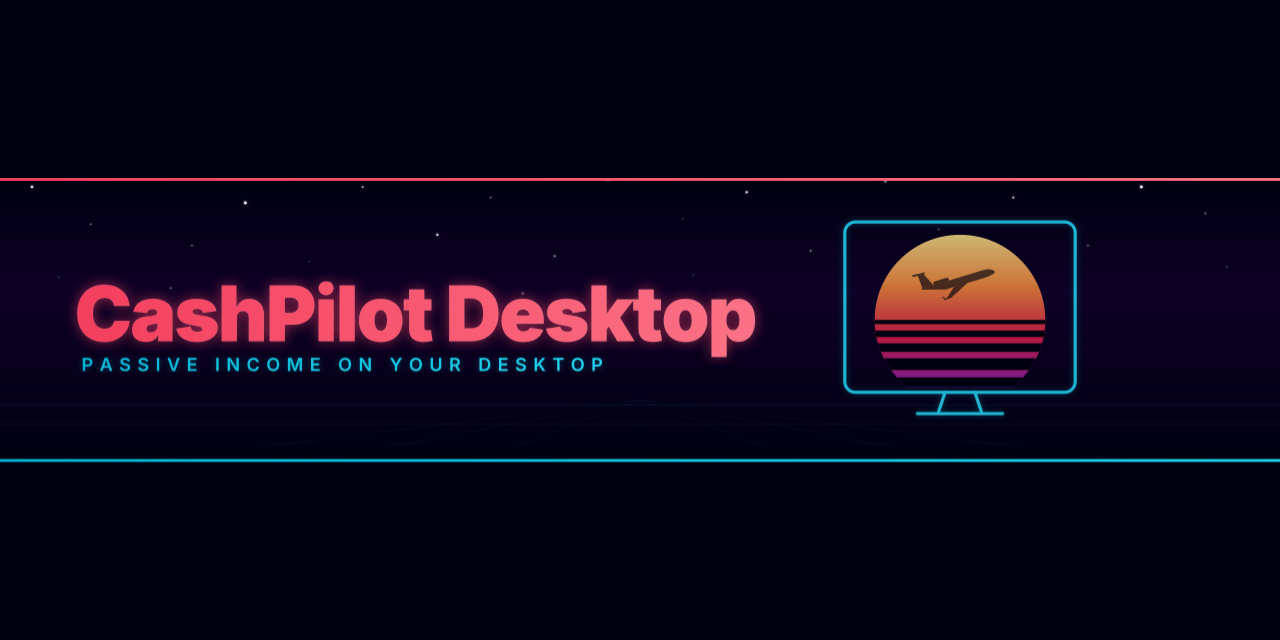
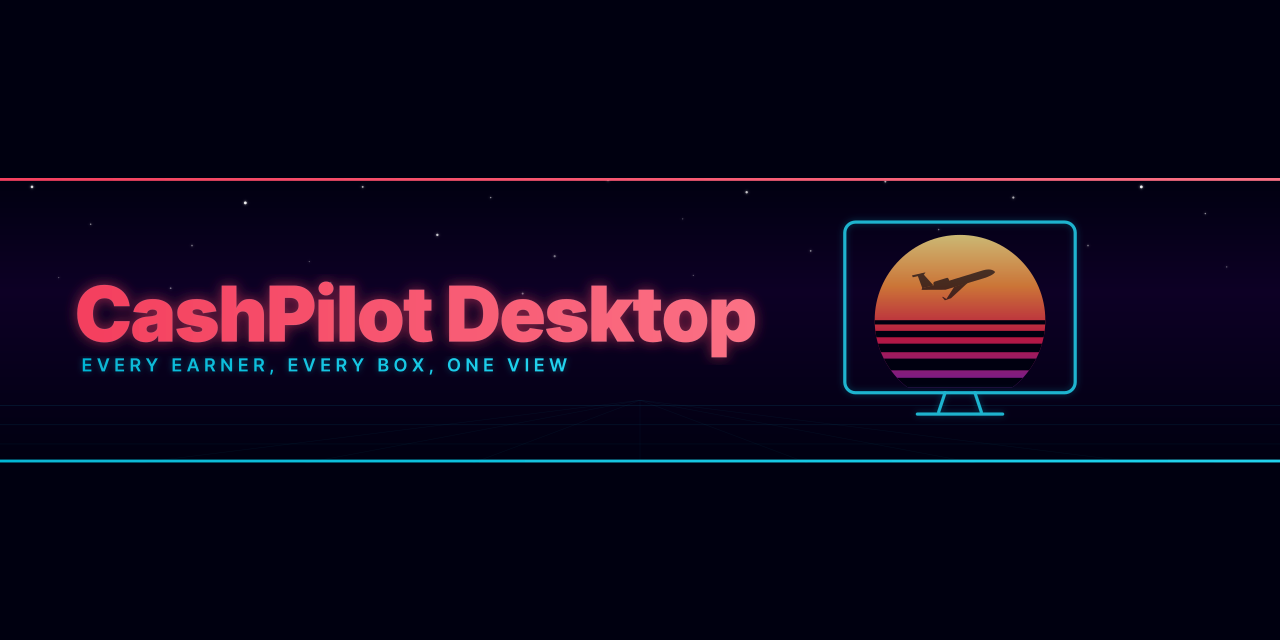
docs: show what Desktop covers now: every kind of earner, the LAN fence and one fleet (#383)
* docs: describe CashPilot Desktop as it is now: every kind of earner, the LAN fence and one fleet

* docs: qualify the socket-proxy and container claims, and fix the AUR desktop-entry checksum

---------

Changed region(s): [[0.0625, 0.5, 0.4688, 0.5938], [0.6875, 0.5, 0.8125, 0.5625], [0.6562, 0.5938, 0.8438, 0.6562]]

diff --git a/packaging/homebrew/cashpilot-desktop.rb b/packaging/homebrew/cashpilot-desktop.rb
@@ -5,7 +5,7 @@ cask "cashpilot-desktop" do
 
   url "https://github.com/GeiserX/CashPilot-Desktop/releases/download/v#{version}/CashPilot-Desktop-darwin-arm64.zip"
   name "CashPilot Desktop"
-  desc "Deploy and monitor passive-income and DePIN services in Docker or Podman"
+  desc "Deploy and track bandwidth sharing, DePIN, mining, GPU and storage earners"
   homepage "https://github.com/GeiserX/CashPilot-Desktop"
 
   livecheck do

diff --git a/README.md b/README.md
@@ -8,11 +8,11 @@
   <a href="https://github.com/GeiserX/CashPilot-Desktop/blob/main/LICENSE"><img src="https://img.shields.io/github/license/GeiserX/CashPilot-Desktop?style=flat-square" alt="License"></a>
   <a href="https://github.com/GeiserX/CashPilot-Desktop/releases"><img src="https://img.shields.io/github/downloads/GeiserX/CashPilot-Desktop/total?style=flat-square&logo=github" alt="Downloads"></a>
   <a href="https://github.com/GeiserX/CashPilot-Desktop/stargazers"><img src="https://img.shields.io/github/stars/GeiserX/CashPilot-Desktop?style=flat-square&logo=github" alt="Stars"></a>
-  <a href="https://cashpilot.club"><img src="https://img.shields.io/badge/website-cashpilot.club-blue?style=flat-square" alt="Website"></a>
-  <a href="https://x.com/CashPilotClub"><img src="https://img.shields.io/badge/X-%40CashPilotClub-000000?style=flat-square&logo=x" alt="X"></a>
 </p>
 
-CashPilot Desktop is a local-first desktop app for macOS (Apple Silicon), Windows and Linux that deploys and monitors passive-income and DePIN services. It packs CashPilot into one app with a system tray and a setup wizard, so you open an app instead of running the CashPilot container and a browser; the earning services themselves still run in Docker or Podman. It runs either as the full CashPilot dashboard (Run everything here) or as a box that joins a CashPilot server you already have (Join my CashPilot).
+<p align="center"><strong>Every earner, every box, one view.</strong><br><a href="https://cashpilot.club">cashpilot.club</a> · <a href="https://x.com/CashPilotClub">@CashPilotClub on X</a></p>
+
+CashPilot Desktop is CashPilot as a desktop app for macOS (Apple Silicon), Windows and Linux. It deploys and tracks the software that earns from your spare bandwidth, compute and disk (bandwidth sharing, DePIN nodes, crypto mining, GPU compute and storage), and on a new install it fences the Docker earners off your LAN and this computer. It runs as the full CashPilot dashboard (Run everything here) or as one more box in a CashPilot fleet you already have (Join my CashPilot). Earners with a container image run in Docker or Podman, and the app tracks the browser-extension and desktop-only ones.
 
 <p align="center">
   <img src="docs/images/screenshots/02-dashboard.png" alt="CashPilot Desktop dashboard" width="80%">
@@ -22,25 +22,16 @@ CashPilot Desktop is at 2.0 and does not update itself: get new versions from th
 
 ## Features
 
-- **One-click install** -- No Docker knowledge required; the app handles container setup for you
-- **System tray (macOS)** -- Runs quietly in the background with quick-access status and earnings summary; menu-bar icon is macOS-only today (Windows/Linux planned)
-- **Real-time monitoring** -- Live earnings, service health, container stats, and node uptime
-- **Multi-node fleet** -- Aggregate view across your entire CashPilot fleet from a single window
-- **Server commands** -- A CashPilot server that this computer joined can deploy, stop, start, restart and remove services here. It needs CashPilot 3.0.0 or newer on the server, and a switch on the dashboard card turns it on or off ([docs](docs/configuration.md#the-server-starts-and-stops-services-here))
-- **Hub for workers and phones** -- Desktop can also be the hub: workers and the [Android companion](https://github.com/GeiserX/CashPilot-android/releases) report to it instead of to a CashPilot server
-- **Activity (opt-in)** -- Which destinations each earner talks to, whether it reaches into your network or sends mail; off by default, remote addresses kept 24 hours ([details](docs/activity.md))
-- **Guided setup wizard** -- Step-by-step onboarding with Docker detection and installation guidance
-- **Custom services** -- Run any image from Docker Hub or another registry that the catalog does not list, with the same restrictions as catalog services. A custom service gets no GPU and may not set an `NVIDIA_` variable ([docs](docs/custom-services.md))
-- **Proxied copies** -- Run extra copies of a deployed service through a SOCKS5, HTTP CONNECT or Tailscale exit-node proxy, so one computer earns on several IPs; a dead proxy stops the copy instead of leaking ([docs](docs/proxies.md))
-- **LAN isolation** -- New installs fence bridge-networked container earners off private ranges, tailnets, cloud metadata, this computer, its public IP and the public IPs of your other CashPilot boxes. If the fence can't be written, the deploy is refused, and the app rewrites it every five minutes. Mysterium's container runs only behind the fence, and its deploy is refused where the fence can't be applied. An upgraded install turns it on with one button. Not covered: Podman, a native (no-Docker) Mysterium node, a public IP with no CashPilot box on it, the minutes before the first public-IP lookup, and the gap after a firewall reload until the next rewrite ([docs](docs/configuration.md#lan-isolation))
-- **Node identities kept safe** -- Removing a service keeps its data, an unrecoverable volume is never deleted without a separate yes, and encrypted backups take one click ([docs](docs/backup.md))
-- **Provider grades** -- Every catalog provider gets a letter grade from the same published criteria as the web app, with its cons and their sources ([how we grade](https://geiserx.github.io/CashPilot/ratings/))
-- **GPU miners** -- A catalog miner gets the GPU that its catalog entry declares, and only this computer's catalog decides that. GPU support is in beta
-- **Check before deploy** -- Before a deploy, the app says what would stop a service earning on this computer
-- **Import from another tool** -- Bring service logins over from money4band, CashFactory or InternetIncome after a dry run ([docs](docs/migrate/money4band.md))
-- **Cross-platform** -- Native builds for macOS (ARM64), Windows (x64), and Linux (x64)
-- **Lightweight** -- Minimal resource usage thanks to native Go backend with webview frontend
-- **Secure** -- Credentials encrypted at rest with AES-256-GCM; master key in the OS keychain. From the first release after v0.20.5 the macOS build is signed with a Developer ID certificate and notarized by Apple; Windows signing is planned.
+- **One-click deploys** -- Pick an earner with a container image from the catalog and the app sets up its container; the wizard helps you install Docker
+- **LAN isolation** -- New Docker installs fence earners off your LAN, tailnets, cloud metadata, this computer and your public IPs, or refuse the deploy ([docs](docs/configuration.md#lan-isolation))
+- **One fleet** -- Join your CashPilot server as one more box, or be the hub that Docker workers and the [Android companion](https://github.com/GeiserX/CashPilot-android/releases) report to
+- **Server commands** -- Your CashPilot server (3.0.0 or newer) can deploy, stop and remove services here, behind a switch ([docs](docs/configuration.md#the-server-starts-and-stops-services-here))
+- **Real-time monitoring** -- Live earnings, service health, container stats and node uptime, with a menu-bar summary on macOS
+- **Activity (opt-in)** -- Which destinations each earner talks to, and whether it reaches into your network or sends mail; remote addresses kept 24 hours ([details](docs/activity.md))
+- **Proxied copies** -- Run extra copies through a SOCKS5, HTTP CONNECT or Tailscale exit-node proxy, so one computer earns on several IPs ([docs](docs/proxies.md))
+- **Node identities kept safe** -- Removing a service keeps its data, and encrypted backups take one click ([docs](docs/backup.md))
+- **Provider grades** -- Every catalog provider gets a letter grade on the web app's published criteria ([how we grade](https://geiserx.github.io/CashPilot/ratings/))
+- **Secure storage** -- Credentials encrypted at rest with AES-256-GCM and the master key in the OS keychain; the macOS build is signed and notarized by Apple
 
 ## Quick start
 
@@ -55,7 +46,7 @@ Platform notes, system requirements and the full walkthrough are in [Getting sta
 
 ## Supported services
 
-CashPilot bundles a catalog of 49 active passive-income services across multiple categories (the catalog also carries 11 retired entries, which the app hides and refuses to deploy). Some links below are affiliate/referral links -- see the [disclosure](docs/services.md#disclosure). Read [how bandwidth-sharing works](docs/services.md#before-you-start-how-bandwidth-sharing-works) before you opt in; per-service limits, payouts and caveats are in [docs/services.md](docs/services.md).
+CashPilot bundles a catalog of 49 active services in five groups: bandwidth sharing, DePIN, GPU compute, crypto mining and storage (the catalog also carries 11 retired entries, which the app hides and refuses to deploy). Some links below are affiliate/referral links -- see the [disclosure](docs/services.md#disclosure). Read [how bandwidth-sharing works](docs/services.md#before-you-start-how-bandwidth-sharing-works) before you opt in; per-service limits, payouts and caveats are in [docs/services.md](docs/services.md).
 
 - **Docker-deployable:** [Anyone Protocol](https://anyone.io), [Bitping](https://app.bitping.com), [Earn.fm](https://earn.fm/ref/GEISYB91), [EarnApp](https://earnapp.com/i/TSMD9wSm), [Honeygain](https://dashboard.honeygain.com/ref/SERGIB4014), [IPRoyal Pawns](https://pawns.app?r=19266874), [MystNodes](https://mystnodes.co/?referral_code=do7v7YOoBBpbOstKQovX2pUvZYKia4ZhH3QIdNtE), [PacketStream](https://packetstream.io/?psr=7xgZ), [ProxyBase](https://peer.proxybase.org/dashboard/signup?referral=nXzS3c6iTO), [ProxyBase Markets](https://proxybase.xyz?referral=nXzS3c6iTO), [ProxyLite](https://proxylite.ru/?r=KMUPRZIZ), [ProxyRack](https://peer.proxyrack.com/ref/mpwiok3xlaxeycnn5znqlg7ipjeutxyxr6xl7vmn), [Repocket](https://link.repocket.com/b1zM), [Sia hostd](https://docs.sia.tech/provide-storage/setting-up-hostd/docker), [Storj](https://storj.dev/node/get-started/setup), [Traffmonetizer](https://traffmonetizer.io/?aff=2111758), [URnetwork](https://ur.io/c?bonus=1Q3G19)
 - **Browser extension / desktop only:** [Bytebenefit](https://bytebenefit.io/invited?ref=Brl4z3), [Bytelixir](https://bytelixir.com/r/OYEIRE0VSZBZ), [Dawn Internet](https://infrastructure.finance/validator-extension?code=2QLQV97F), [Deeper Network](https://shop.deeper.network?sca_ref=12020100.q8Vxm3SliA), [Ebesucher](https://www.ebesucher.com/?ref=geiserx), [Grass](https://app.grass.io/register?referralCode=kn8FNEPnUr2tMqE), [Helium](https://helium.com), [Nodepay](https://app.nodepay.ai/register?ref=0wzzyznen64j9zx), [Noderr Micronodes](https://micronodes.noderr.xyz/), [Nodle](https://nodle.com), [PassiveApp](https://passiveapp.com/i/bqpC4M), [Sentinel dVPN](https://sentinel.co), [Spide](https://spide.network/register.html?f3bc51), [Teneo Protocol](https://dashboard.teneo.pro/auth/signup?referralCode=CAqef), [Theta Edge Node](https://thetatoken.org), [Titan Network](https://edge.titannet.info/signup?inviteCode=2GKKJ495), [Uprock](https://link.uprock.com/i/33e8492e), [Wipter](https://wipter.com/register?via=FB1373FBDA)
@@ -83,9 +74,9 @@ CashPilot bundles a catalog of 49 active passive-income services across multiple
 
 | Project | Type | Description |
 |---------|------|-------------|
-| [CashPilot](https://github.com/GeiserX/CashPilot) | Backend | Multi-service passive income aggregator and fleet manager |
-| [CashPilot-android](https://github.com/GeiserX/CashPilot-android) | Android Agent | Monitoring agent for passive income apps on Android |
-| [cashpilot-mcp](https://github.com/GeiserX/cashpilot-mcp) | MCP Server | Monitor earnings from AI assistants via Model Context Protocol |
+| [CashPilot](https://github.com/GeiserX/CashPilot) | Server | Self-hosted dashboard and Docker worker for every earner and every box |
+| [CashPilot-android](https://github.com/GeiserX/CashPilot-android) | Android agent | Watches the earning apps on your phone and reports them to your fleet |
+| [cashpilot-mcp](https://github.com/GeiserX/cashpilot-mcp) | MCP server | Gives your AI agent your earnings, your fleet and control of your earners |
 | [cashpilot-ha](https://github.com/GeiserX/cashpilot-ha) | Home Assistant | Earnings and service status sensors for your smart home |
 
 ## License
